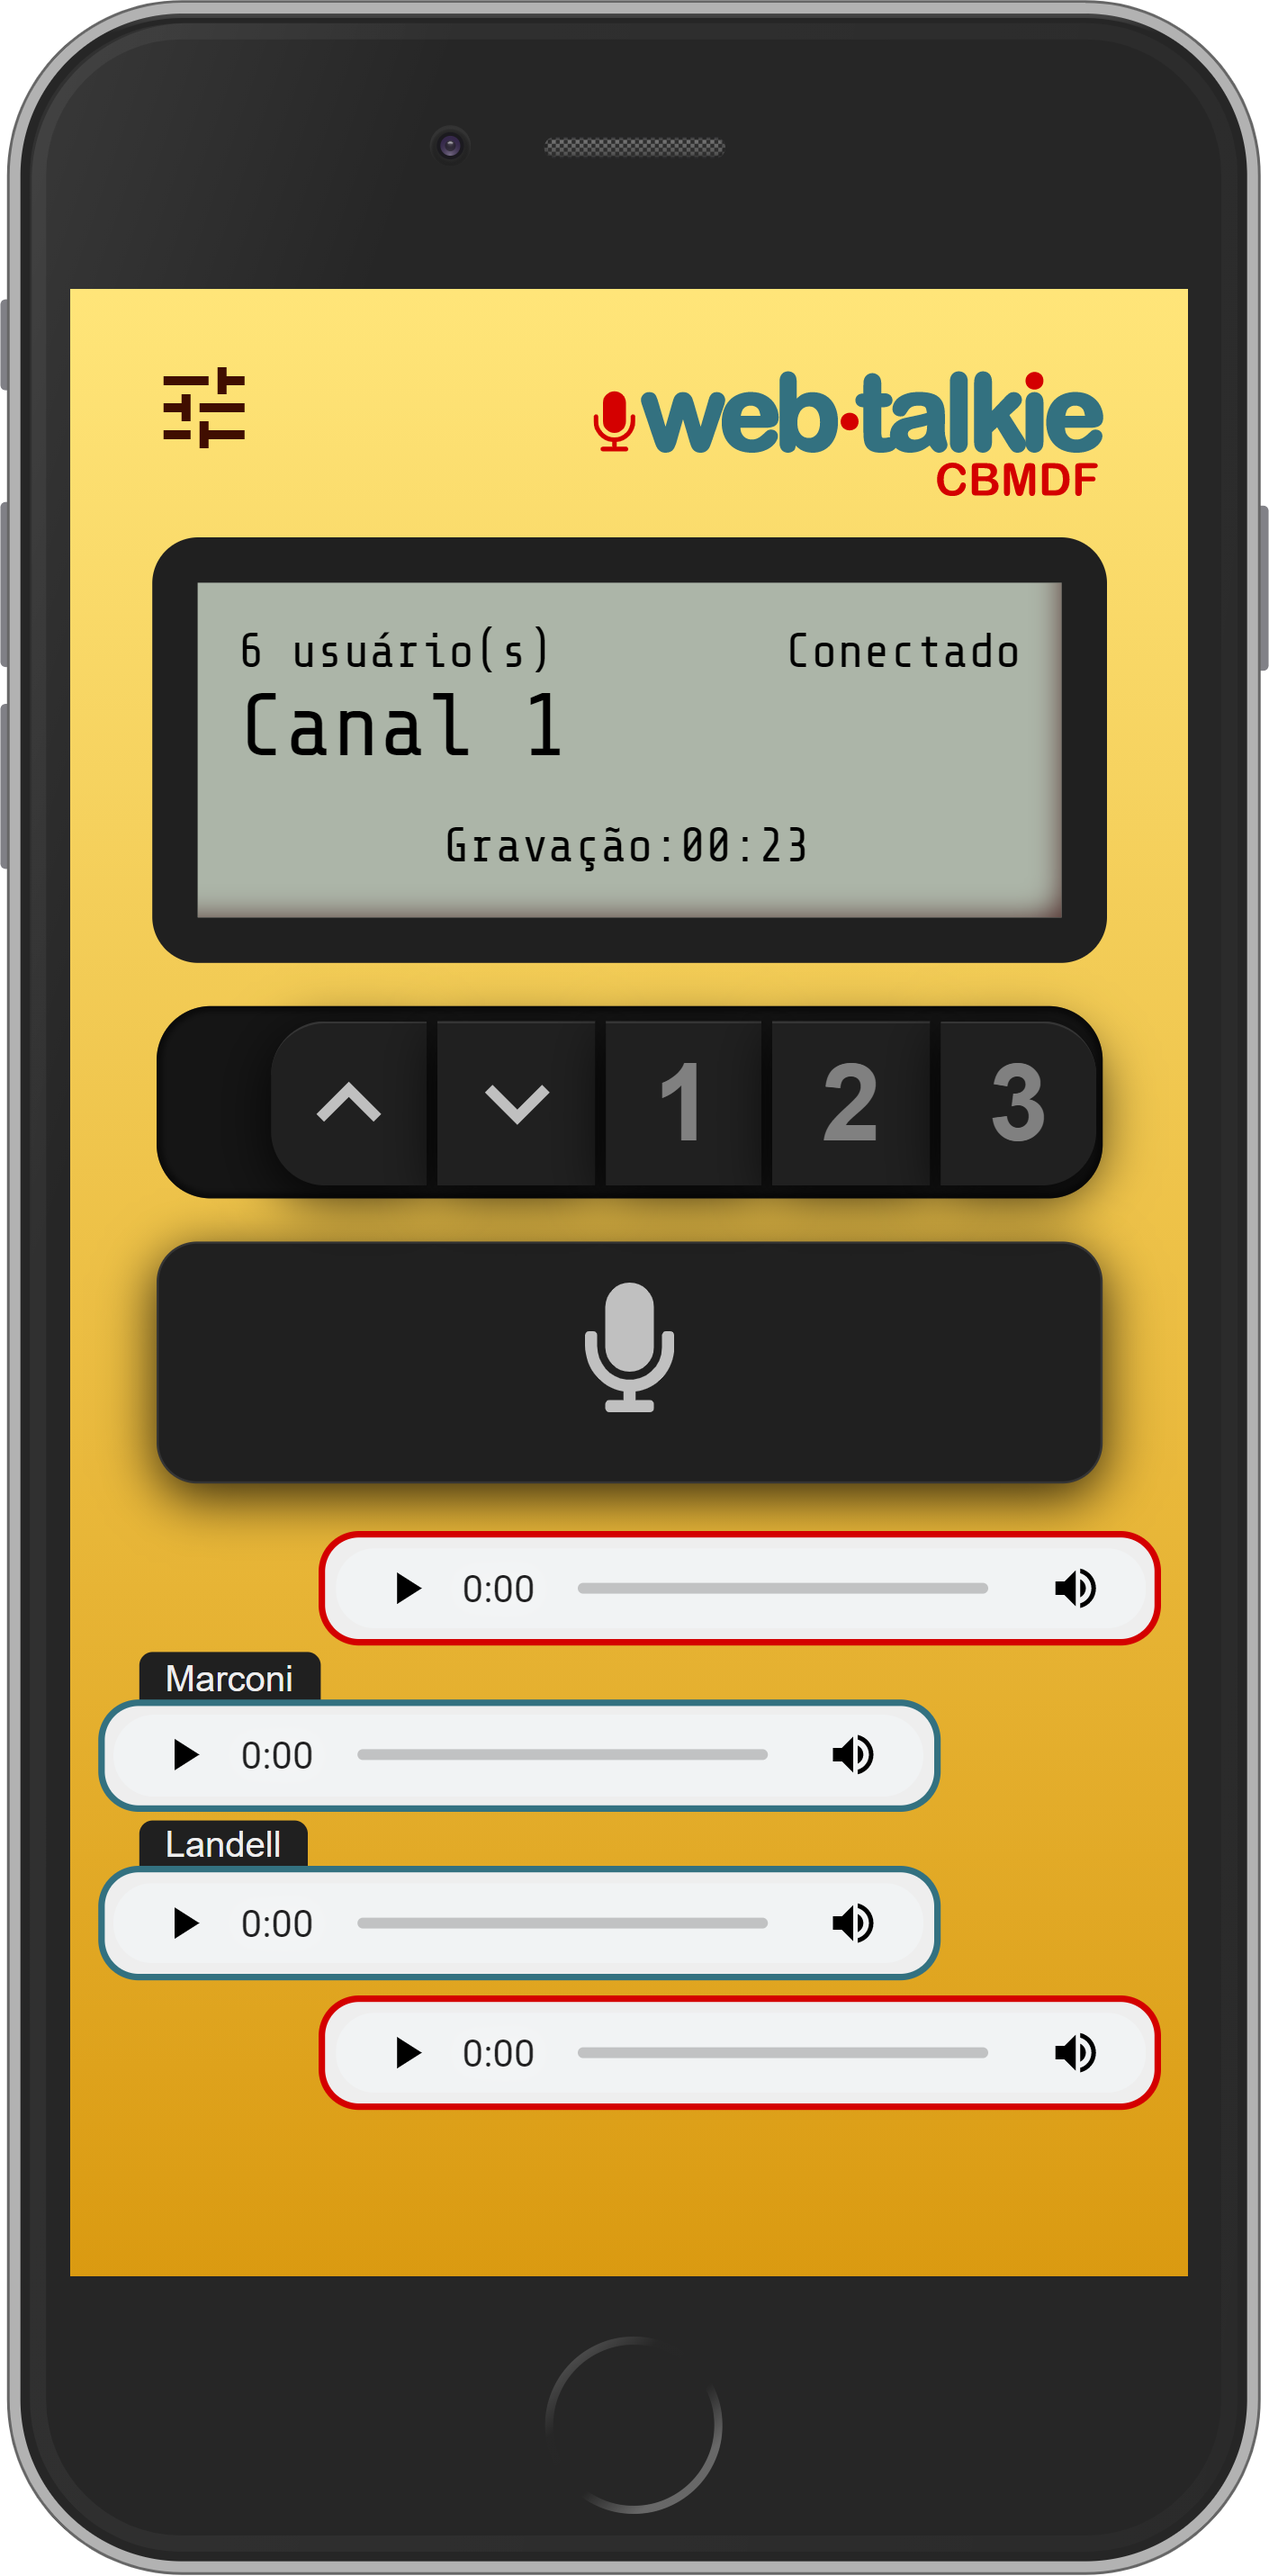
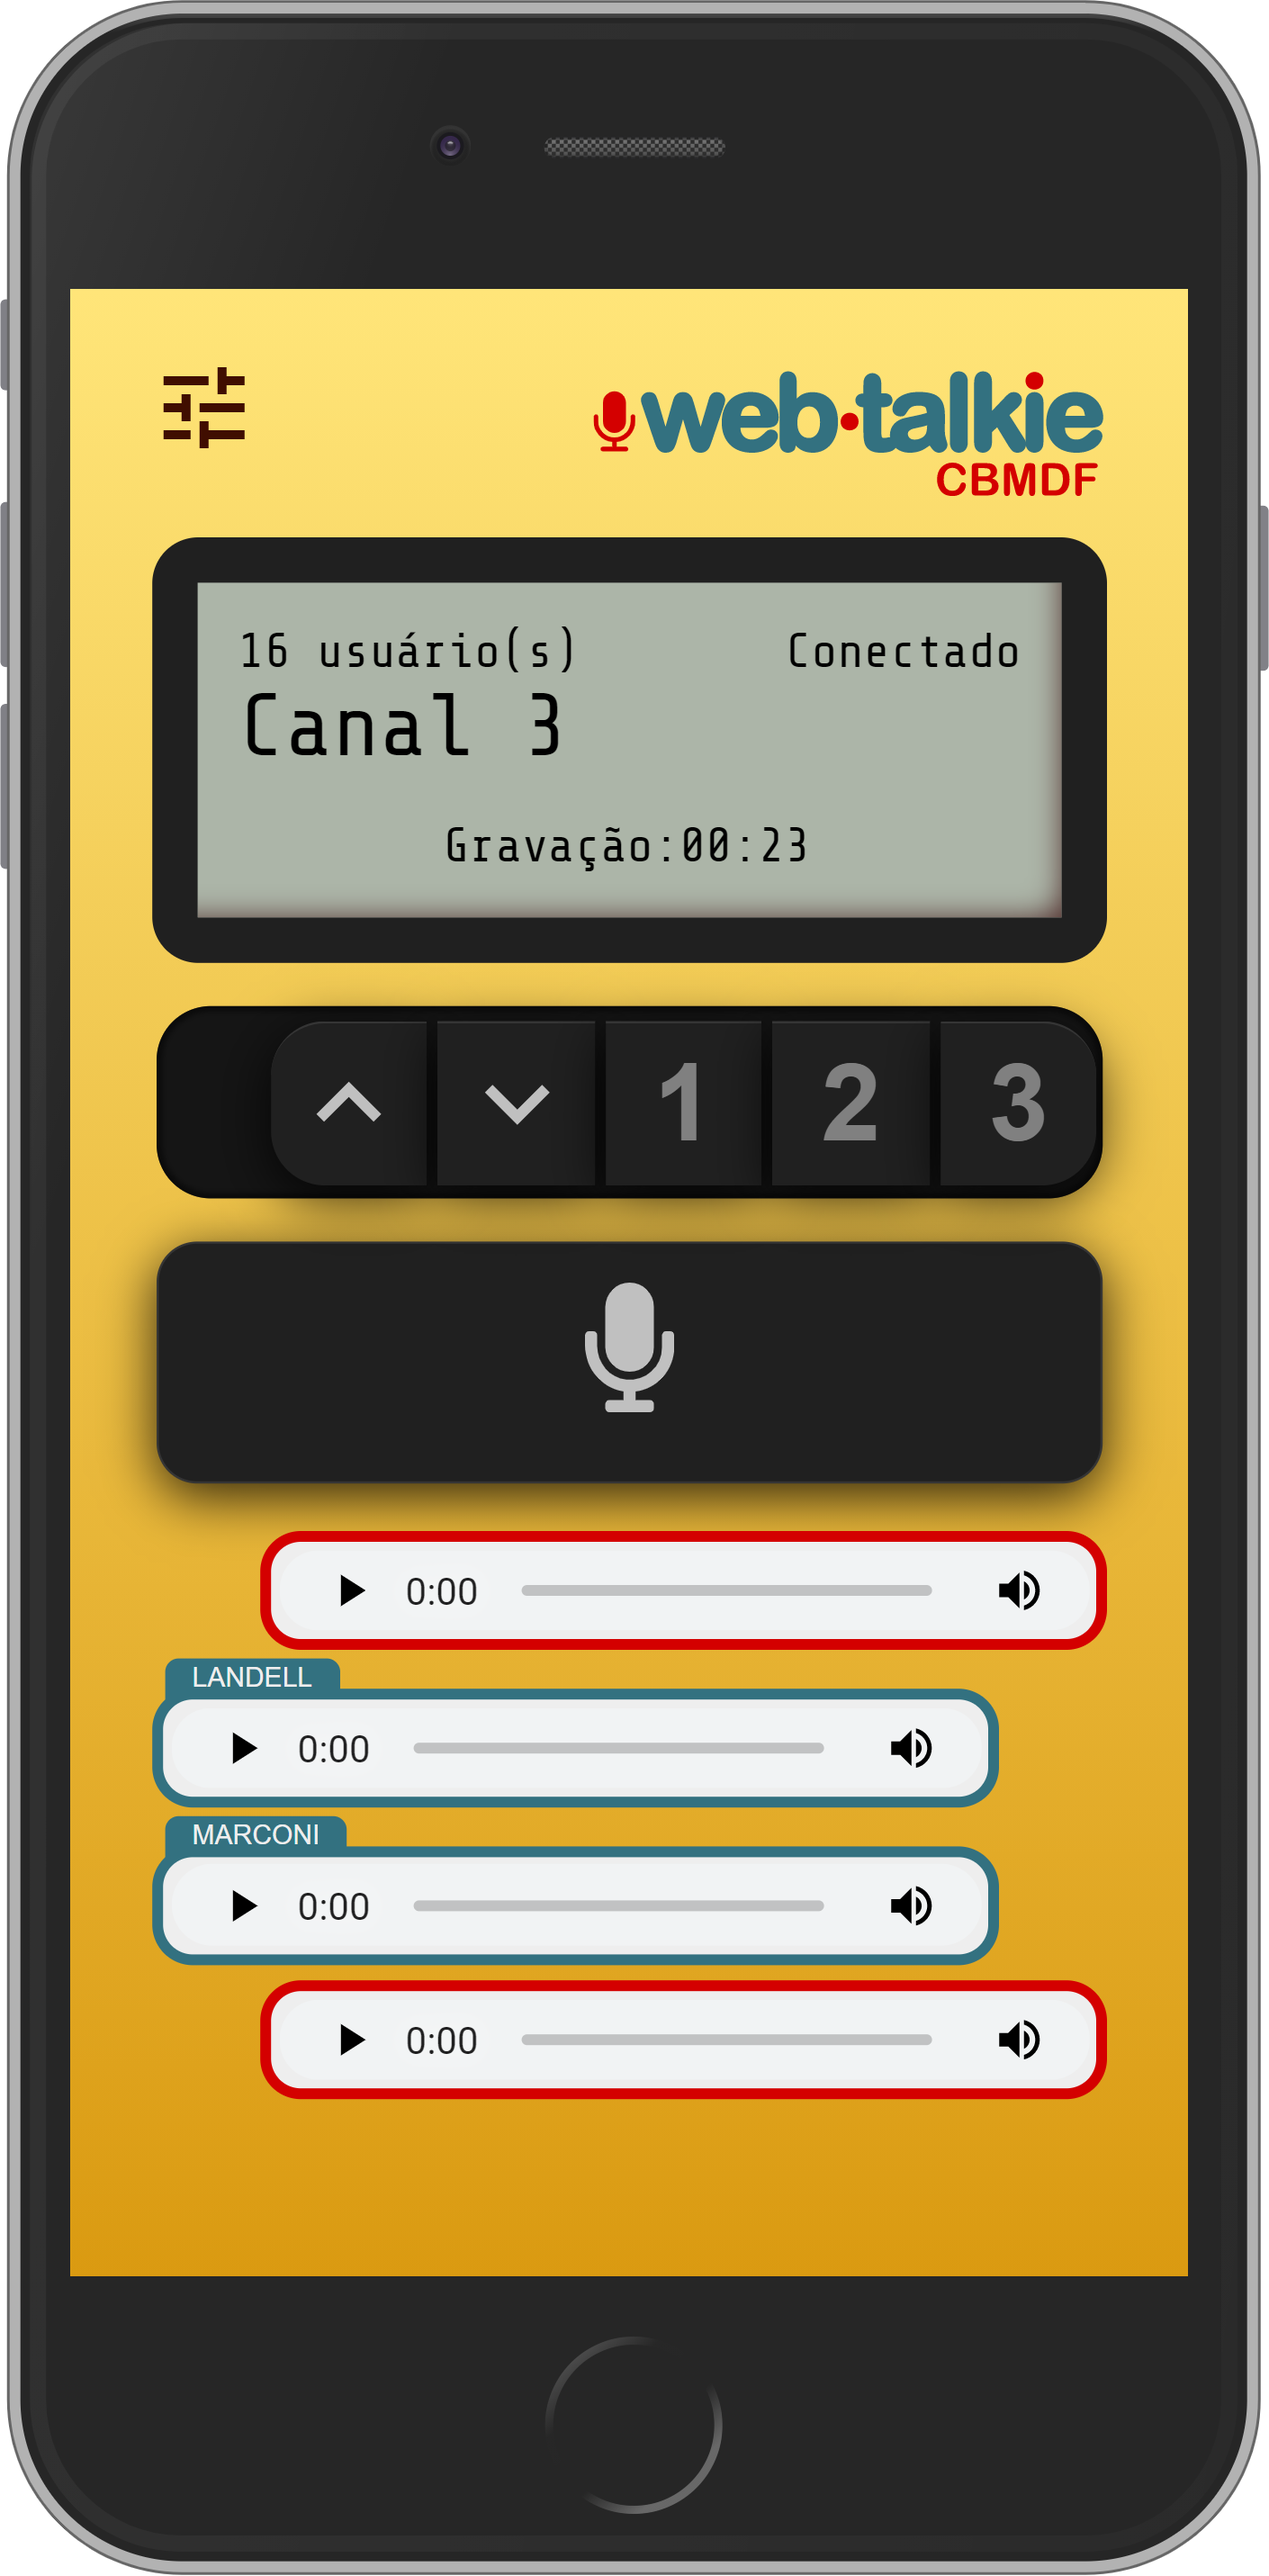
Other CSS adjustments.

Changed region(s): [[0.0624, 0.5908, 0.9362, 0.8396], [0.3121, 0.5908, 0.9362, 0.653], [0.1872, 0.2488, 0.4369, 0.311]]

diff --git a/react-ui/src/App.css b/react-ui/src/App.css
@@ -25,15 +25,15 @@ audio {
   background-color: #eee;
   border-radius: 15px;
   display: block;
-  border: solid 3px #337180;
+  border: solid 4px #337180;
   padding: 3px;
   height: 30px;
   width: 300px;
-  margin: 3px auto;
+  margin: 3px 20px;
 }
 
 audio.samePerson {
-  border: solid 3px #d40000;
+  border: solid 4px #d40000;
 }
 
 audio::before {
@@ -46,11 +46,12 @@ audio::before {
   display: block;
   width: fit-content;
   padding: 2px 10px;
-  margin-bottom: -6px;
-  margin-left: 15px;
-  font-size: smaller;
-  background: #202020;
+  margin-bottom: -7px;
+  margin-left: 25px;
+  font-size: 10px;
+  background: #337180;
   color: #eee;
+  text-transform: uppercase;
 }
 
 #brand {
